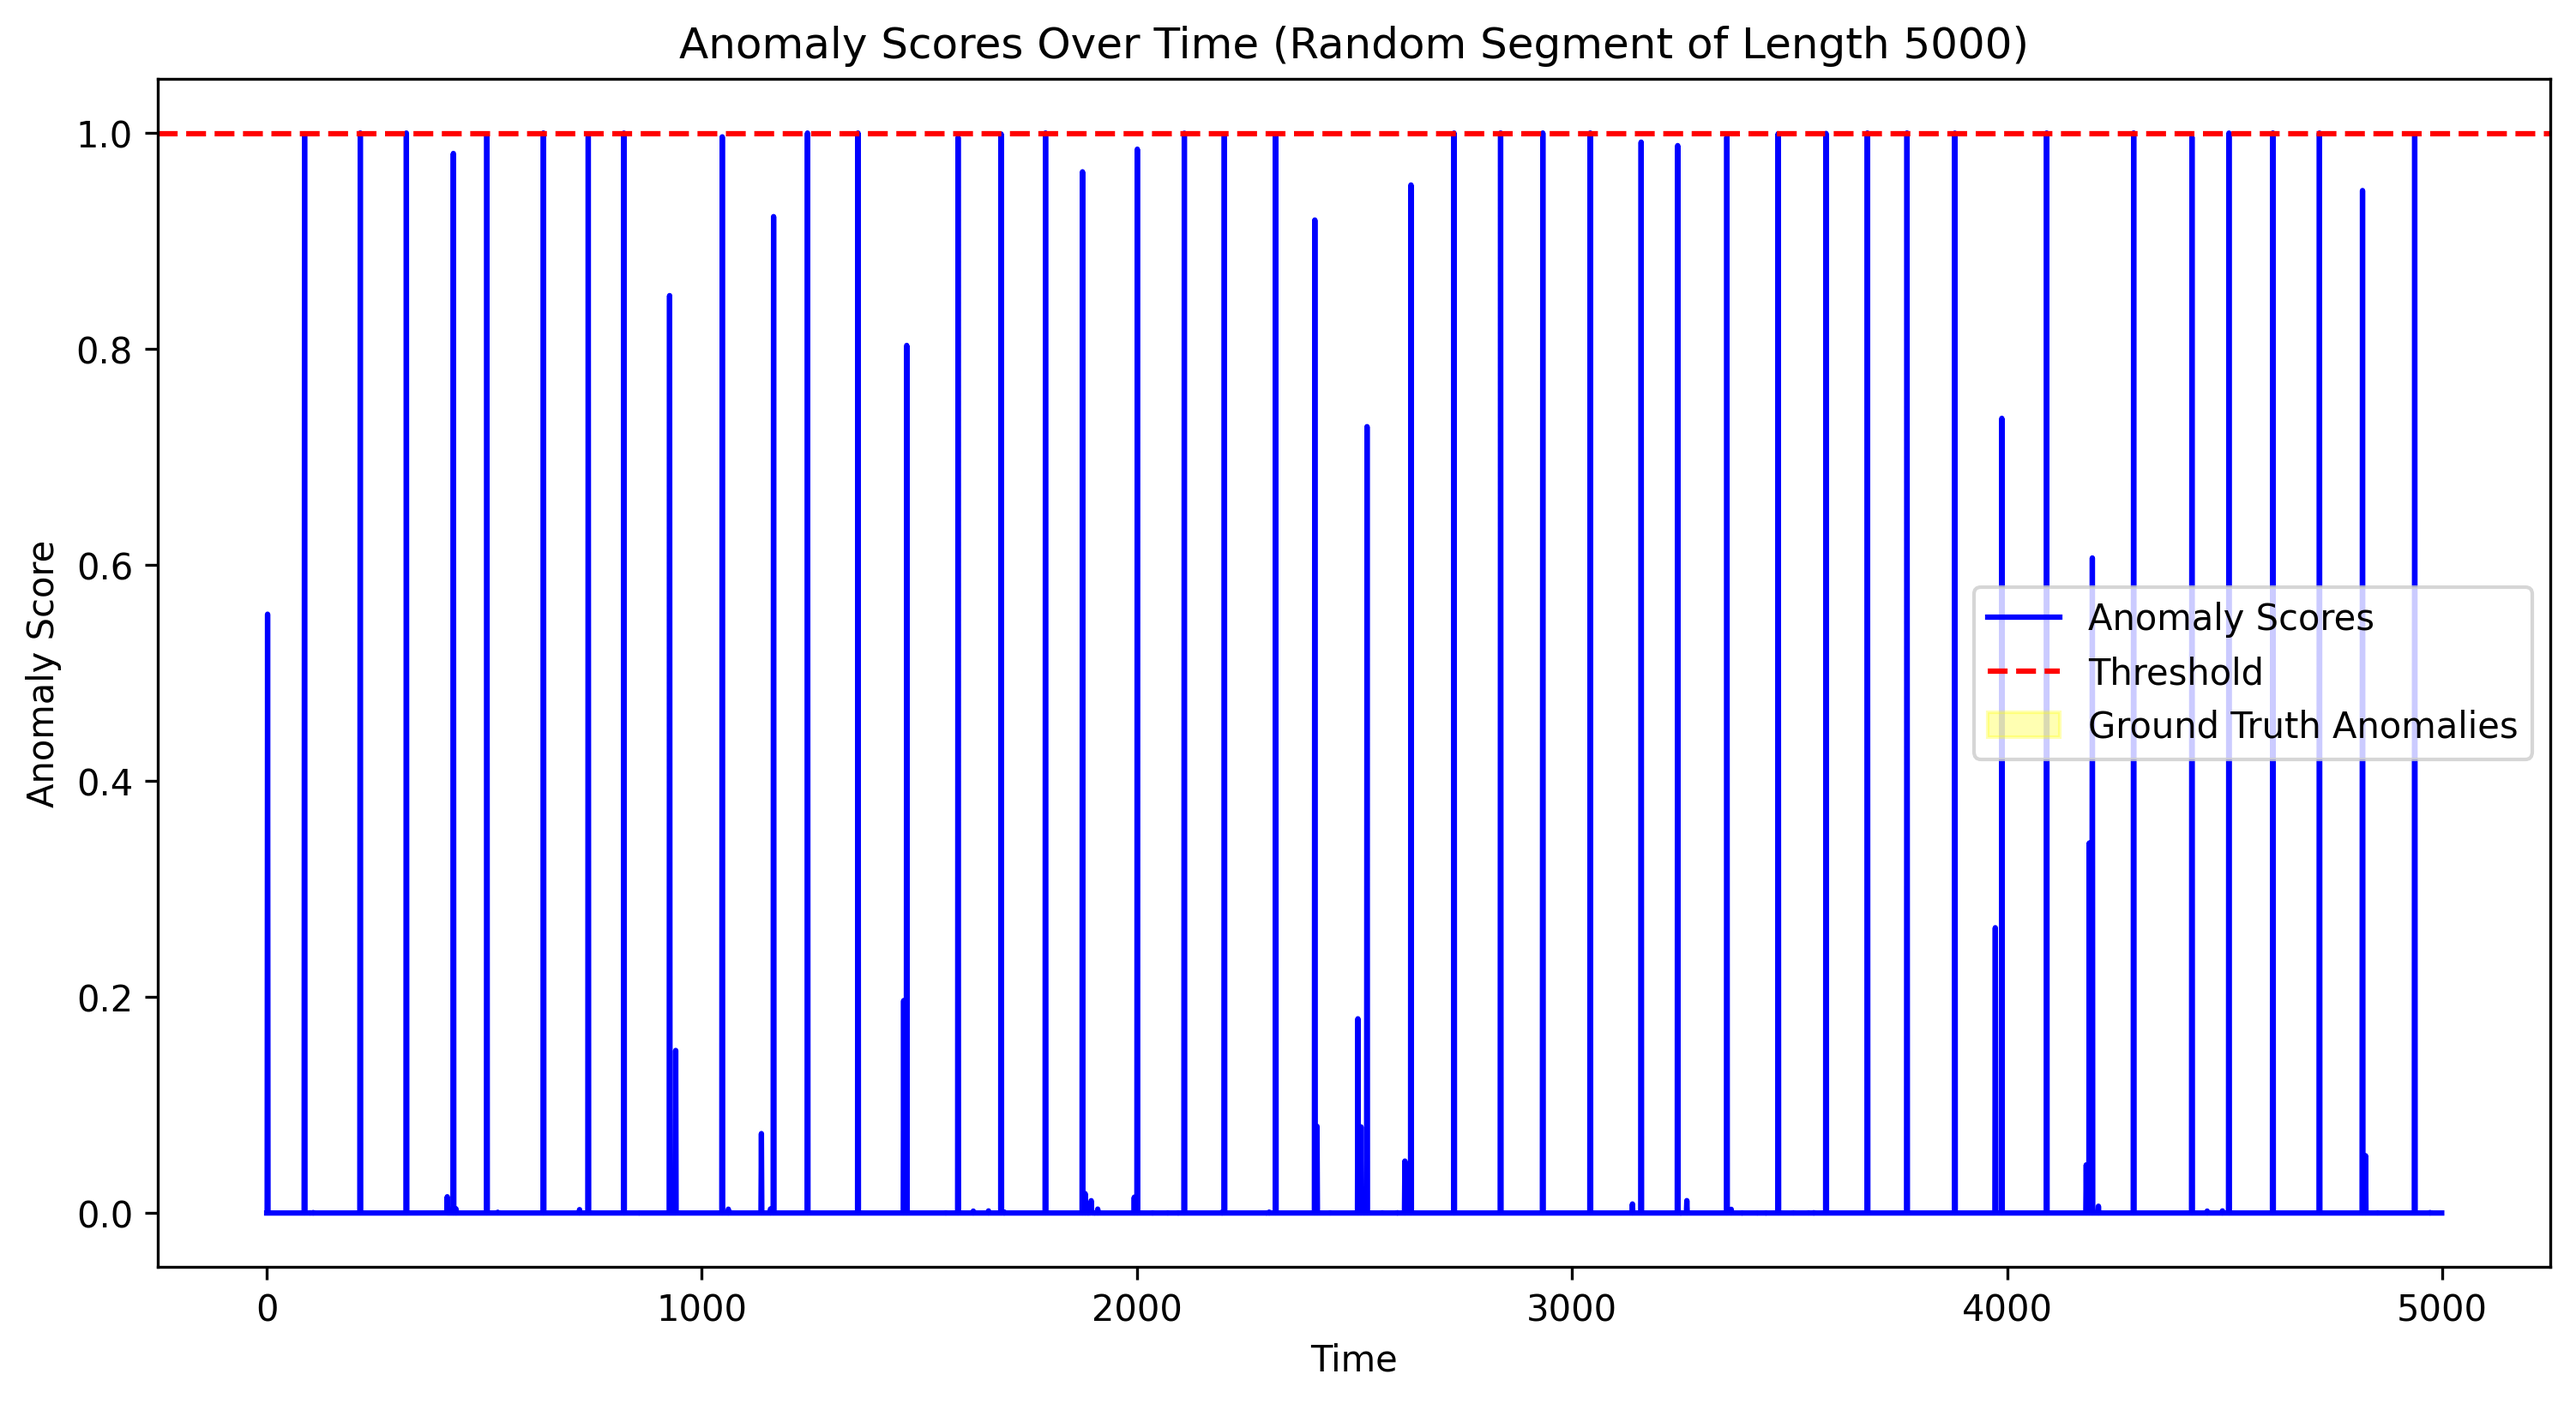
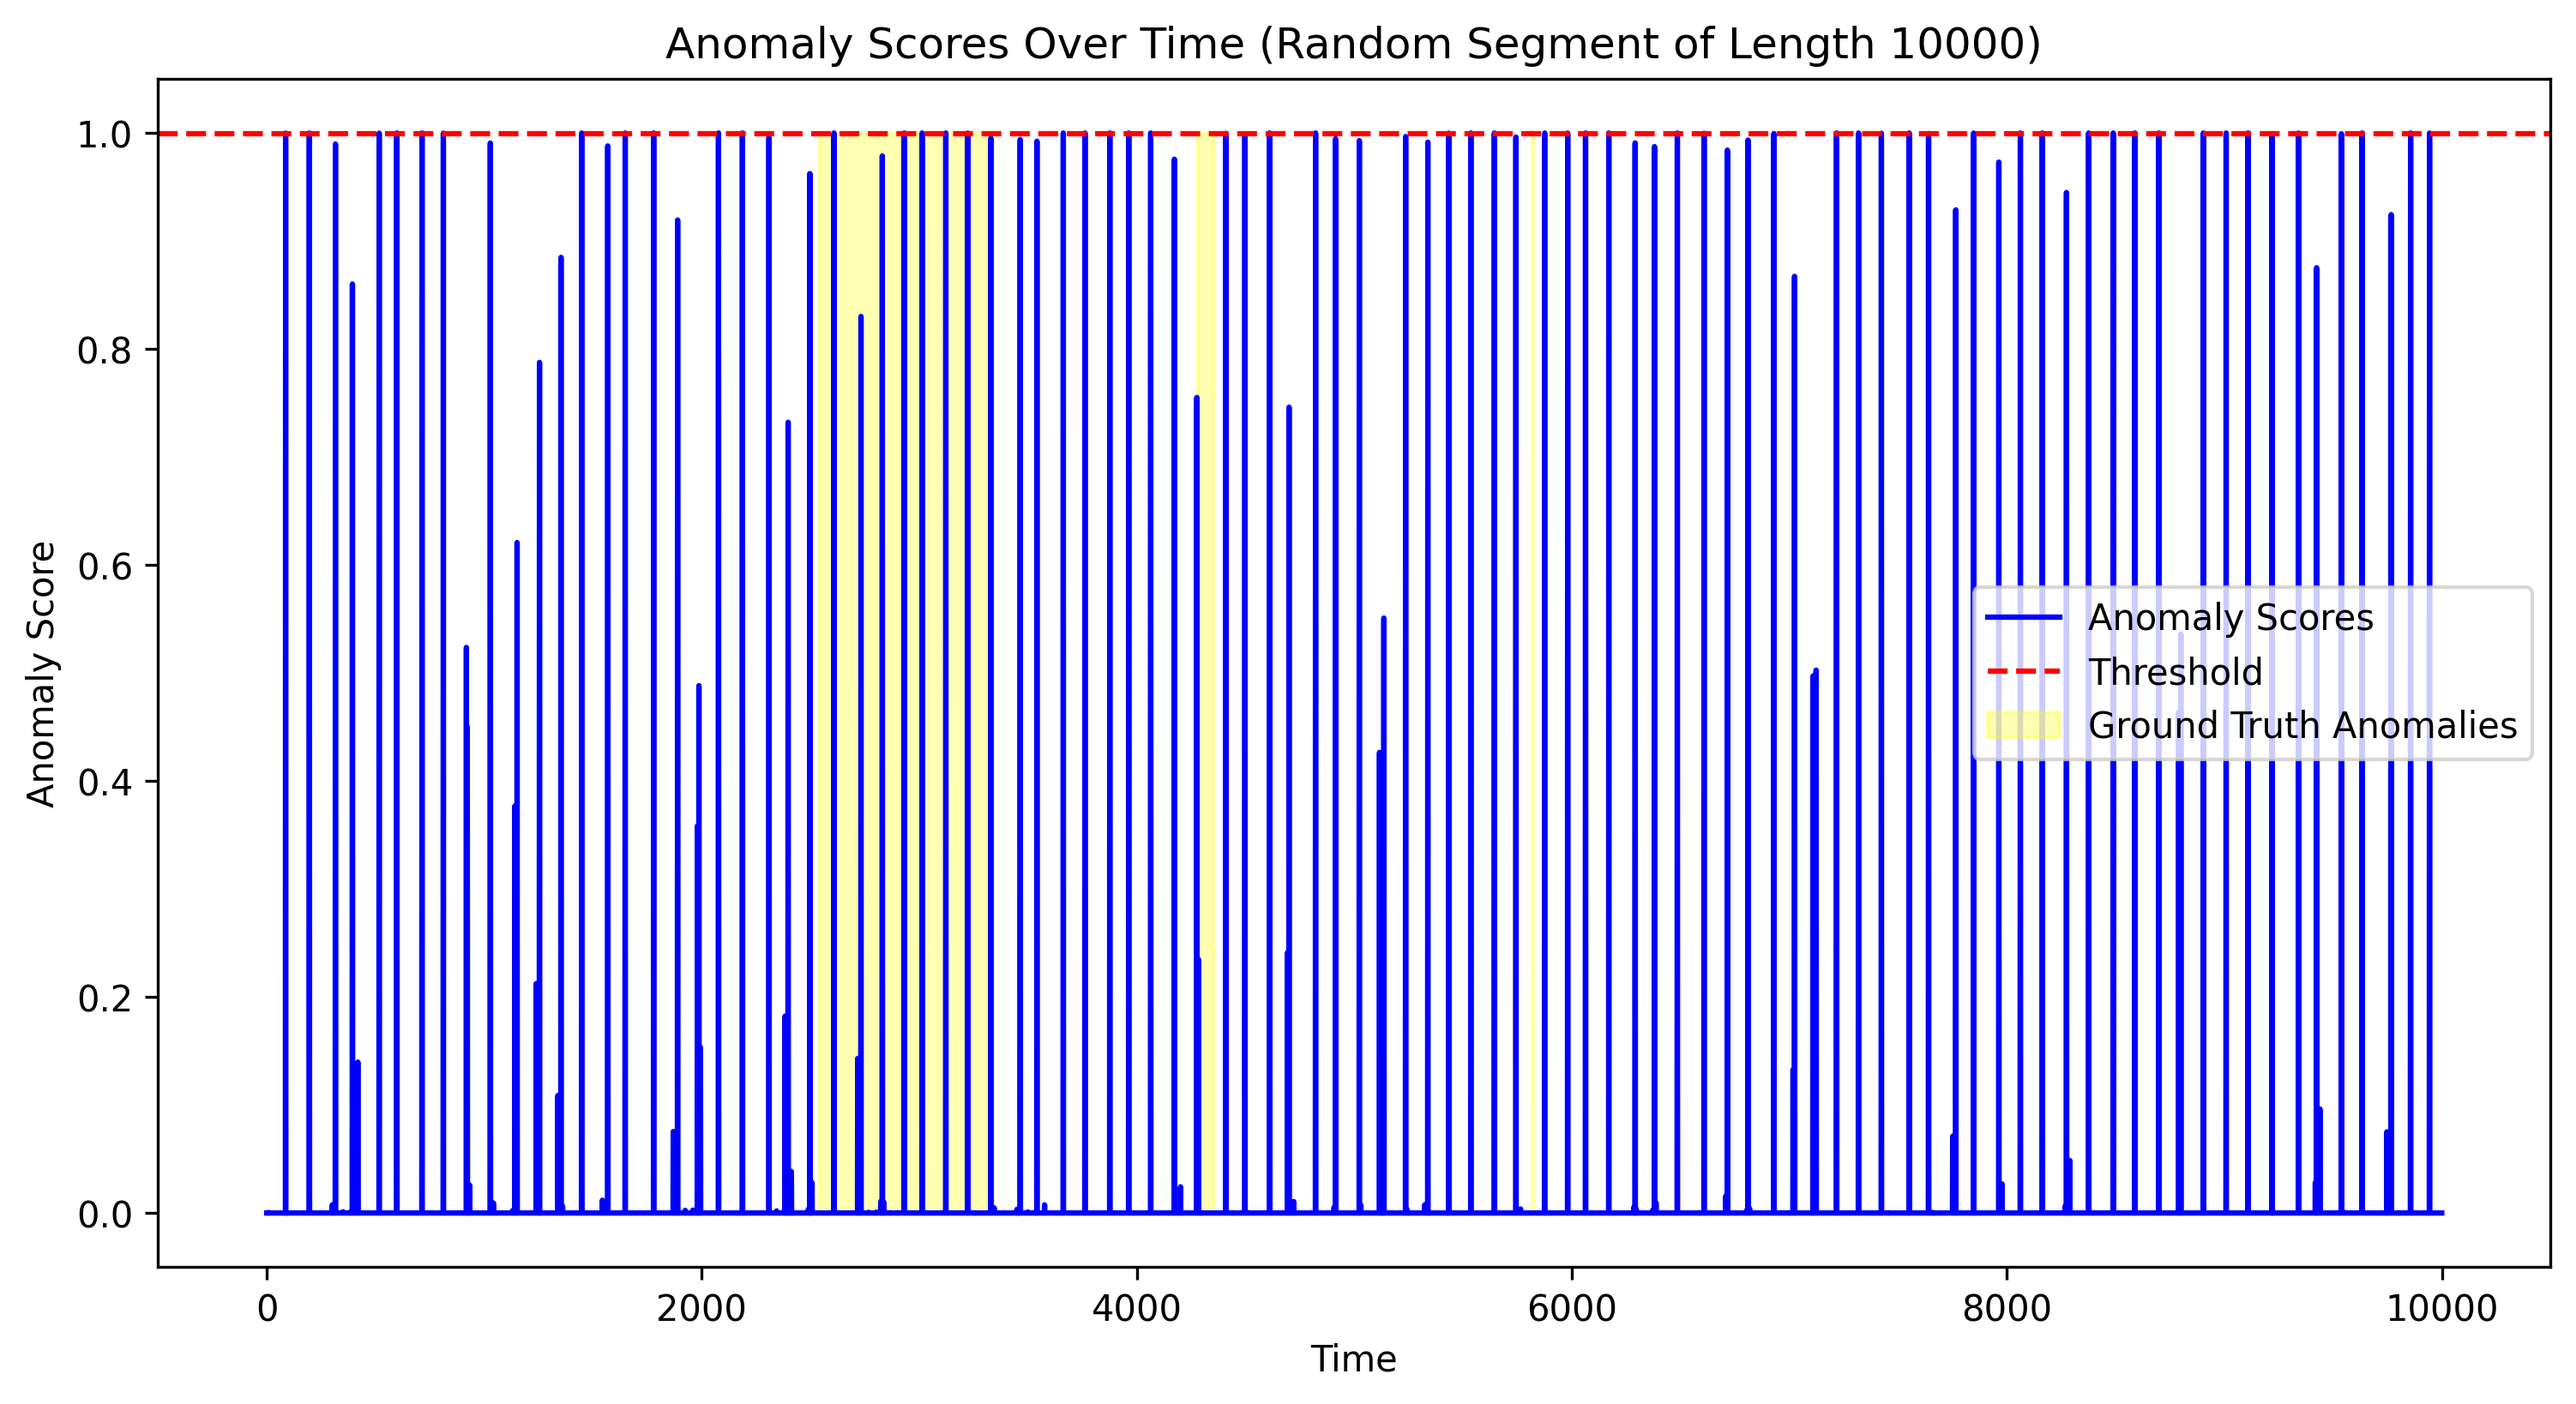
gdfgd

diff --git a/solver.py b/solver.py
@@ -430,7 +430,7 @@ class Solver(object):
         plt.legend()
 
         # Save the plot to a file
-        plot_filename = 'anomaly_scores_plot_random_segment5000.png'
+        plot_filename = 'anomaly_scores_plot_random_segment10000.png'
         plt.savefig(plot_filename, dpi=300, bbox_inches='tight')
         print(f"Plot saved to {plot_filename}")
         plt.show()
